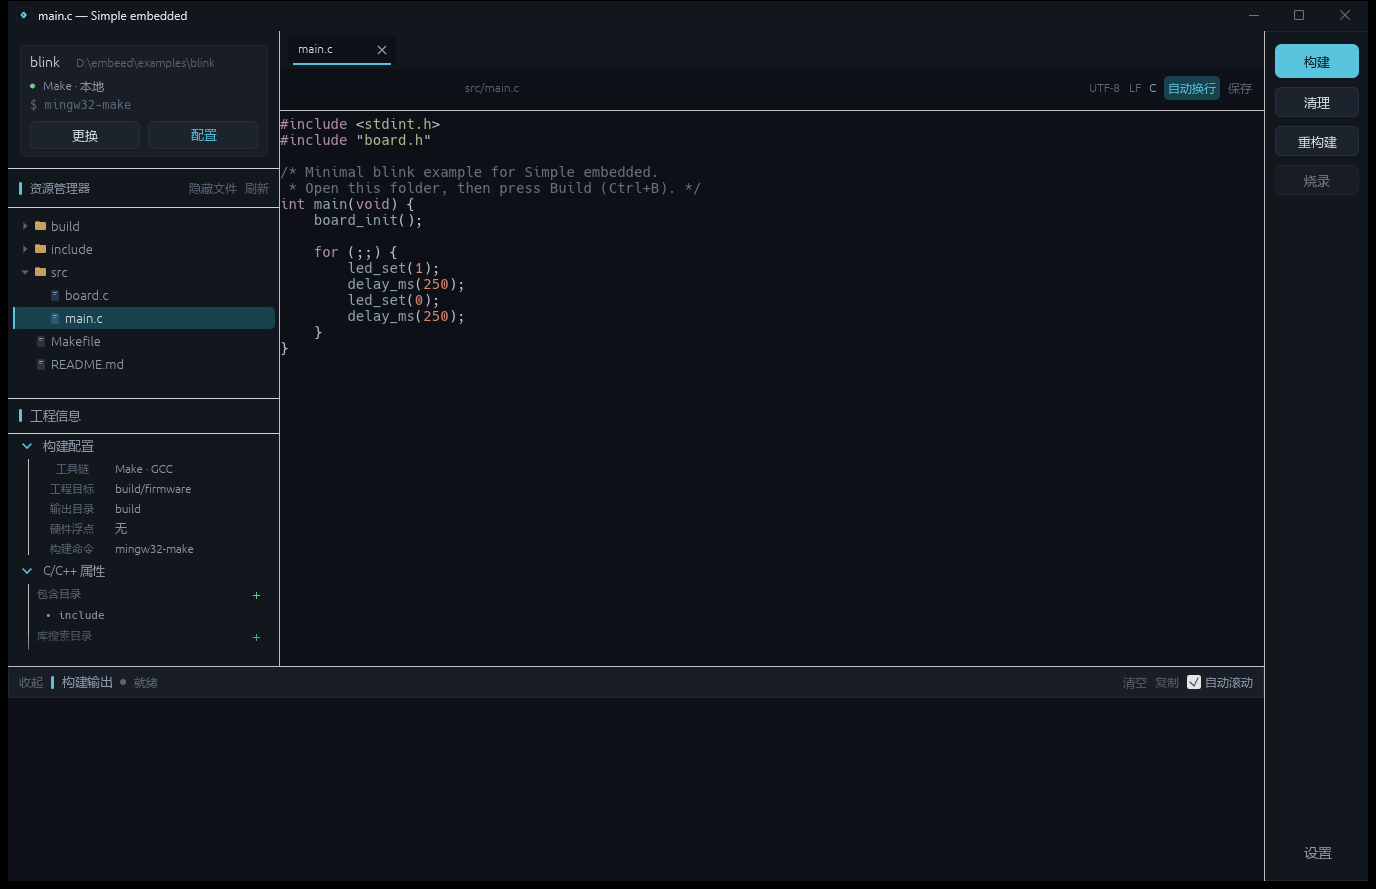
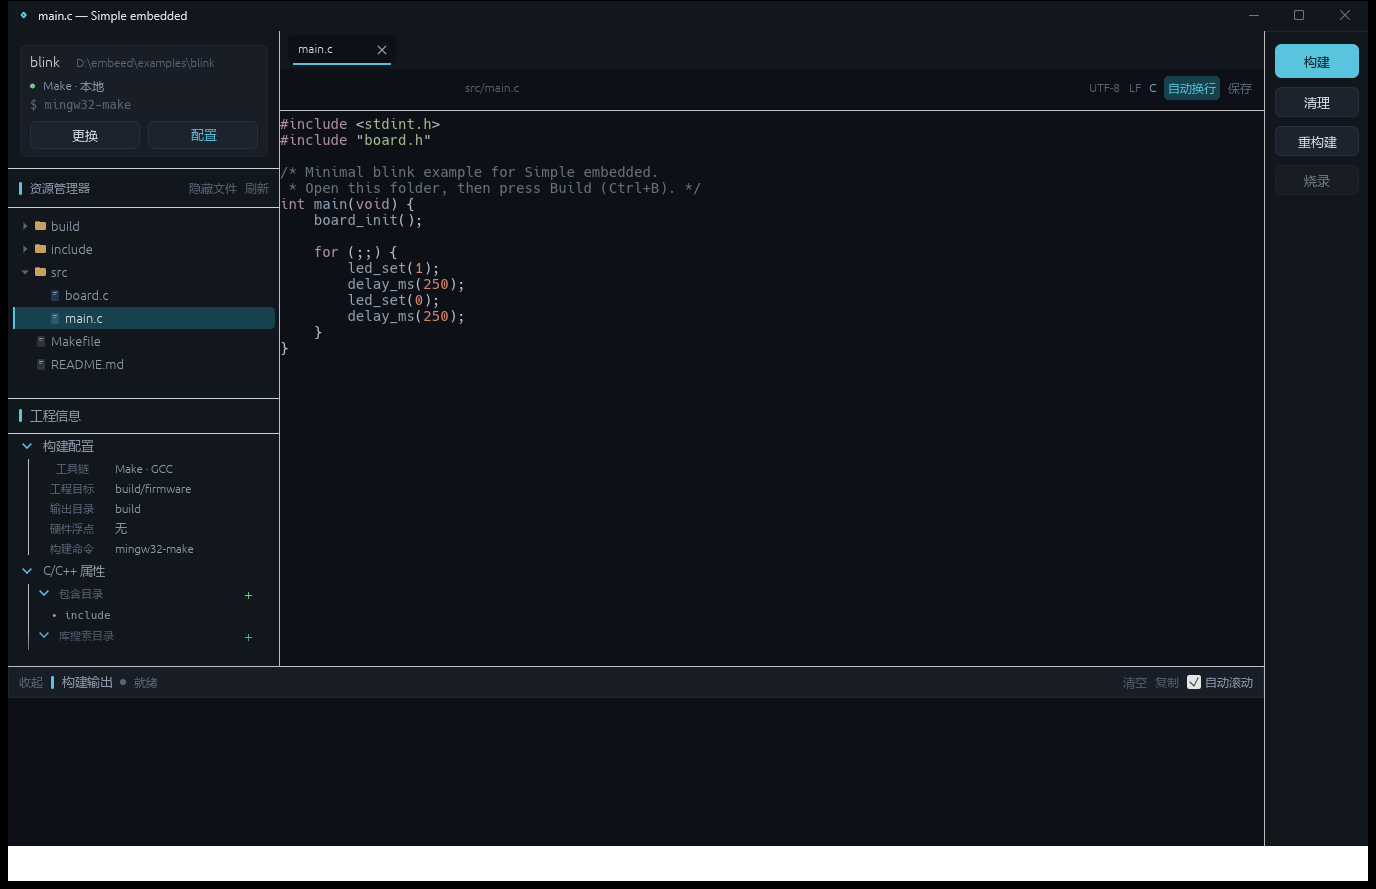
feat: add collapsible C/C++ metadata lists
Add independent collapse controls for include, library and define lists, and keep add buttons clear of the scrollbar.

Changed region(s): [[0.0, 0.9415, 1.0, 1.0], [0.0312, 0.6682, 0.0938, 0.7289]]

diff --git a/src/app/ui.rs b/src/app/ui.rs
@@ -1421,12 +1421,29 @@ fn meta_editable_list(
     field: MetaListField,
     actions: &mut Vec<Action>,
 ) {
+    let id = ui.make_persistent_id(("simple_embedded_meta_list", label));
+    let mut open = ui
+        .data_mut(|data| data.get_persisted::<bool>(id))
+        .unwrap_or(true);
+    let mut toggle = false;
+
     ui.horizontal(|ui| {
-        ui.label(RichText::new(label).size(11.0).color(theme::TEXT_FAINT));
+        let (rect, response) = ui.allocate_exact_size(egui::vec2(14.0, 18.0), Sense::click());
+        paint_chevron(ui.painter(), rect, open, theme::ACCENT);
+        if response.clicked() {
+            toggle = true;
+        }
+        if ui
+            .add(Button::new(RichText::new(label).size(11.0).color(theme::TEXT_FAINT)).frame(false))
+            .clicked()
+        {
+            toggle = true;
+        }
         let button_width = 22.0;
         let remaining = ui.available_width();
-        if remaining > button_width {
-            ui.add_space(remaining - button_width);
+        let reserved = button_width + 8.0;
+        if remaining > reserved {
+            ui.add_space(remaining - reserved);
         }
         let plus = Button::new(RichText::new("+").size(16.0).strong().color(theme::SUCCESS))
             .frame(false)
@@ -1436,15 +1453,23 @@ fn meta_editable_list(
         }
     });
 
+    if toggle {
+        open = !open;
+        ui.data_mut(|data| data.insert_persisted(id, open));
+    }
+    if !open {
+        return;
+    }
+
     if items.is_empty() {
         ui.horizontal(|ui| {
-            ui.add_space(8.0);
+            ui.add_space(14.0);
             ui.label(RichText::new("未检测").size(11.0).color(theme::TEXT_FAINT));
         });
     } else {
         for item in items {
             ui.horizontal(|ui| {
-                ui.add_space(8.0);
+                ui.add_space(14.0);
                 let response = ui.add(
                     Label::new(
                         RichText::new(format!("• {item}"))

diff --git a/AGENTS.md b/AGENTS.md
@@ -83,7 +83,7 @@ docs/                  README 截图和使用教程
 ### 工程信息
 
 - `project_meta.rs` 在打开工程时读取 Makefile 或 Keil `.uvprojx`，提取目标名、芯片、CPU、浮点、链接脚本、内存布局、包含目录、宏定义等。
-- 左栏先显示资源管理器，再显示“工程信息”；分割线紧贴“工程信息”标题上下，只保留“构建配置”和“C/C++ 属性”两个分组。两个分组标题左侧各有折叠箭头，展开状态存在 egui 内存中。数据按工程缓存，刷新文件树时重新读取。
+- 左栏先显示资源管理器，再显示“工程信息”；分割线紧贴“工程信息”标题上下，只保留“构建配置”和“C/C++ 属性”两个分组。两个分组标题以及三个 C/C++ 列表标题左侧各有折叠箭头，展开状态存在 egui 内存中。数据按工程缓存，刷新文件树时重新读取。
 - 包含目录、库搜索目录和预处理器定义支持在左栏编辑：每个列表右侧有绿色 `+`，批量编辑仍可用。覆盖值存 `BuildConfig.meta_includes` / `meta_library_dirs` / `meta_defines`（`None` 表示自动检测），只影响工程信息展示，不修改 Makefile/.uvprojx，也不写工程目录。
 - 没有可解析的工程文件时只依赖 `BuildConfig`，不要为空字段编造值。
 

diff --git a/README.md b/README.md
@@ -17,7 +17,7 @@
 - 打开任意文件夹作为工程，不做 `Makefile` / `Cargo.toml` / `CMakeLists.txt` 之外的项目配置
 - 深色标题栏与界面配色一致，构建 / 清理 / 重构建 / 烧录集中在右侧操作栏
 - 左侧构建卡片显示工程名（加粗）、完整路径、构建模式和命令，可配置或更换工程
-- 工程信息树：分组左侧箭头可折叠；从 Makefile 或 Keil `.uvprojx` 读取 CPU、浮点、链接脚本、内存布局、包含目录、库搜索目录和宏定义；列表右侧 `+` 可添加，修改保存在本机设置
+- 工程信息树：分组和列表标题左侧都有折叠箭头；从 Makefile 或 Keil `.uvprojx` 读取 CPU、浮点、链接脚本、内存布局、包含目录、库搜索目录和宏定义；列表右侧 `+` 可添加，修改保存在本机设置
 - 左侧目录树：展开/折叠、隐藏文件、刷新、点击打开文件；右键可在资源管理器或 VS Code 中打开
 - 多文件 Tab、脏标记、关闭前提示保存
 - 文本编辑：`Ctrl+S` 保存、Tab 缩进、撤销/重做、复制粘贴等由 egui 文本编辑控件提供

diff --git a/docs/TUTORIAL.md b/docs/TUTORIAL.md
@@ -53,7 +53,8 @@ cargo run --release -- D:\firmware\my-board src\main.c
 - 构建卡片里的 **配置** 用于修改构建命令，**更换** 用于切换工程
 - 文件树下方是“工程信息”，点击分组左侧箭头可收起/展开构建配置和 C/C++ 属性
 - 工程信息中可查看构建配置、输出目录、CPU、浮点、链接脚本、包含目录、库搜索目录和宏定义
-- 包含目录、库搜索目录和预处理定义右侧有绿色 `+`，点击可直接添加一项；底部的 **批量编辑** 可一次修改全部内容
+- 包含目录、库搜索目录和预处理定义标题左侧也有折叠箭头，可单独收起
+- 这些列表右侧有绿色 `+`，点击可直接添加一项；底部的 **批量编辑** 可一次修改全部内容
 - 这些修改保存在本机设置中，不会修改 Makefile 或 `.uvprojx`
 - 左侧点文件夹展开，点文件在中间打开
 - 文件有修改时，Tab 上会出现黄色圆点，窗口标题也会标记为未保存
